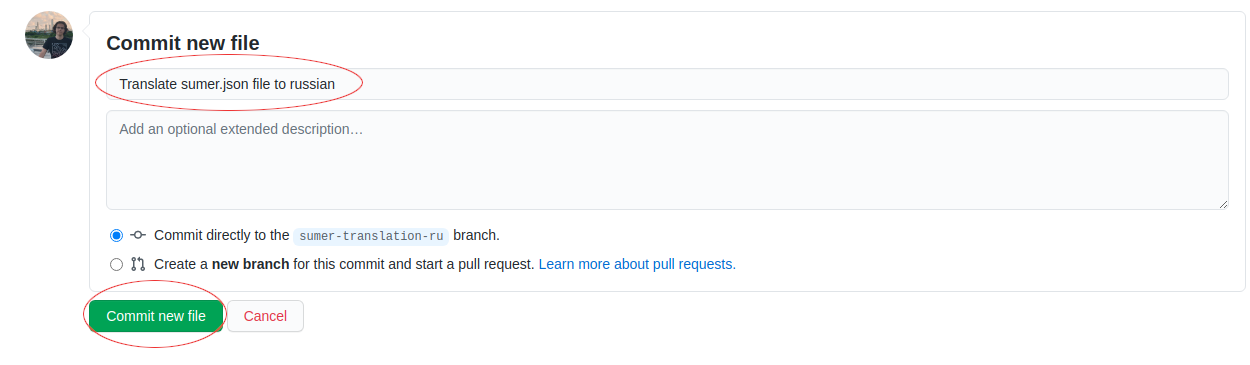
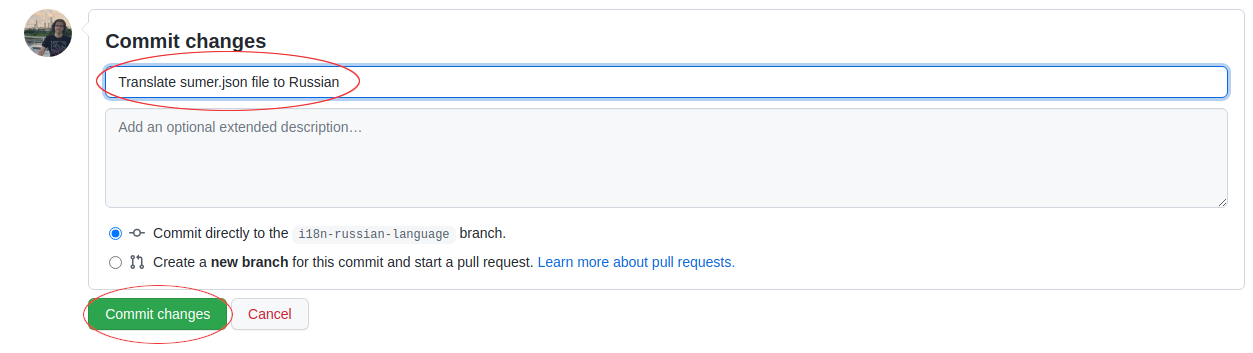
Update option 2 images and text to reflect branch change

Changed region(s): [[0.0, 0.0312, 0.9984, 0.5921], [0.0624, 0.6232, 0.5928, 0.9972]]

diff --git a/src/locales/CONTRIBUTING.md b/src/locales/CONTRIBUTING.md
@@ -93,15 +93,15 @@ If you're not as familiar with git and the whole process of making contributions
 
 ![step one: fork joystream-org repo](../assets/images/i18n-readme/step-one.png)
 
-**Step 2:** Go to your fork and switch over to the development branch.
+**Step 2:** Go to your fork and switch over to the translation branch.
 
-![step two: go to your fork and switch branch to development](../assets/images/i18n-readme/step-two.png)
+![step two: go to your fork and switch branch to translation](../assets/images/i18n-readme/step-two.png)
 
 **Step 3:** If your branch is behind, make sure to pull the latest changes.
 
 ![step three: pull latest changes if necessary](../assets/images/i18n-readme/step-three.png)
 
-**Step 4:** Find the file you wish to translate (that still hasn't been translated) and create a branch that explains exactly what you wish to do. In this example we've used `sumer-translation-ru` to signify that we are translating the sumer testnet file into Russian. You don't have to use this exact naming convention but make sure that it is clear what changes you've made!
+**Step 4:** Find the file you wish to translate (that still hasn't been translated) and create a branch that explains exactly what you are doing. In this example we've used `i18n-russian-language` to signify that we are translating the joystream-org to Russian.
 
 ![step four: create a branch with an explanatory name](../assets/images/i18n-readme/step-four.png)
 
@@ -121,9 +121,9 @@ If you're not as familiar with git and the whole process of making contributions
 
 ![step eight: go back to fork and click compare and pull request](../assets/images/i18n-readme/step-eight.png)
 
-**Step 9:** In this final step, make sure to change the branch to development and then fill out all the necessary PR metadata. Your title and description should meaningfully explain your changes (you can use the example below to get a better idea of what to do). Please don't forget to reference the issue that tracks the translations you're making and also add the `internationalization` label. And finally, after all this hard work you can press *Create pull request*. Thank you! 🎉
+**Step 9:** In this final step, make sure to change the branch to translation and then fill out all the necessary PR metadata. Your title and description should meaningfully explain your changes (you can use the example below to get a better idea of what to do). Please don't forget to also add the `internationalization` label. And finally, after all this hard work you can press *Create pull request*. Thank you! 🎉
 
-![step nine: change branch to dev, explain what you did, reference necessary issue, add internationalization label and create pull request](../assets/images/i18n-readme/step-nine.png)
+![step nine: change branch to translation, explain what you did, add internationalization label and create pull request](../assets/images/i18n-readme/step-nine.png)
 
 **Step 10:** You can now continue adding translations to the same PR until you're done with the scope of the tasks explained in the Bounty.
 
